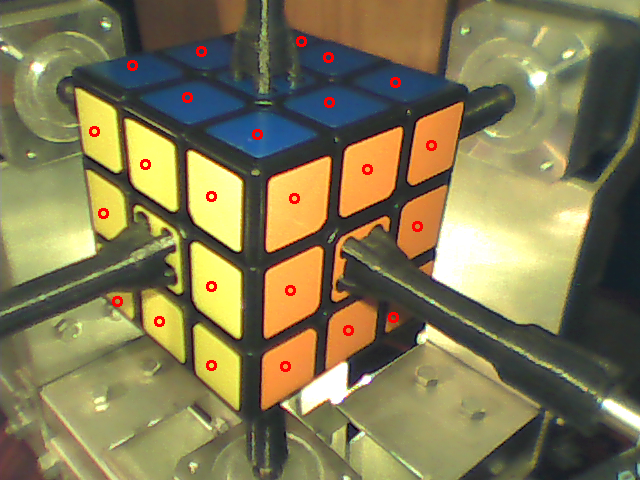
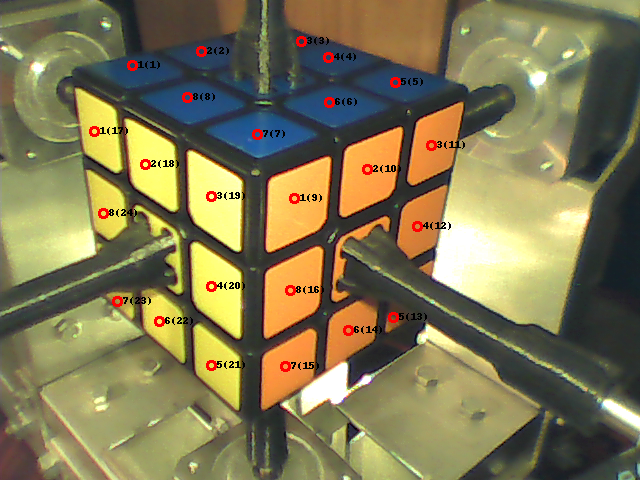
assignment

diff --git a/python/main.py b/python/main.py
@@ -1,41 +1,43 @@
+import read_points_from_file
+import history
+import make_a_photo
+import colors
+
 PATH = '/home/alex/inzynierka/'
 
+#save old photos in history
+number_of_photos_in_history = 5 
 
+history.set_number_of_photos_in_history(number_of_photos_in_history)
+history.set_path(PATH)
+history.save_history()
+
+#make a photo
+# make_a_photo.make_a_photo('/dev/video0', '/dev/video0')
+
+#get an coords of points
 red_wall = [9]
 yellow_wall = [9]
 orange_wall = [9]
 white_wall = [9]
 blue_wall = [9]
 green_wall = [9]
-
-
-#get an coords of points
+cube = [red_wall, yellow_wall, orange_wall, white_wall, blue_wall, green_wall]
 
 coords = [[],[]]
 coords_down = []
 coords_up = []
 
-import read_points_from_file
+cube_colors = [[],[]]
+cube_colors_down = []
+cube_colors_up = []
 
 coords = [coords_down, coords_up] = read_points_from_file.read_points_from_file(PATH + 'data/points.txt')
 
+#take the color values and save it 
 
-#save old photos in history
-import photo_history
-
-number_of_photos_in_history = 5 
-
-photo_history.set_number_of_photos_in_history(number_of_photos_in_history)
-photo_history.set_path(PATH)
-photo_history.save_history()
-
-#make a photo
-import make_a_photo
-
-make_a_photo.make_a_photo('/dev/video0', '/dev/video0')
-
-#take the color values and save it
-
+cube_colors_down = colors.take_colors(coords_down, PATH+'img/cube_down_new.jpg')
+cube_colors_up = colors.take_colors(coords_up, PATH+'img/cube_up_new.jpg')
 
 
 #obróć ściankę 

diff --git a/python/draw_points_on_image.py b/python/draw_points_on_image.py
@@ -14,7 +14,7 @@ def draw_elipse(draw, x, y, color = (255, 0, 0), radius = 5, width = 3):
     draw.ellipse([(x0, y0),(x1, y1)], None, color, width)
 
 
-f = open('/home/alex/inzynierka/python/points.txt', 'r')
+f = open('/home/alex/inzynierka/data/points.txt', 'r')
 
 coords_down = []
 coords_up = []
@@ -34,10 +34,14 @@ f.close()
 im = Image.open('/home/alex/inzynierka/img/kostka_dol.png')
 draw = ImageDraw.Draw(im)
 
-
-
+n = 0
+m = 0
 for i in range(0, len(coords_down), 2):
     draw_elipse(draw, coords_down[i], coords_down[i+1])
+    n+=1
+    m+=1
+    draw.text((coords_down[i]+6, coords_down[i+1]-6), (str(n)+'('+str(m)+')'), fill="black")
+    if n==8: n=0
 
 im.save('cube_marked_down.png')
 im.close()
@@ -45,8 +49,13 @@ im.close()
 im = Image.open('/home/alex/inzynierka/img/kostka_gora.png')
 draw = ImageDraw.Draw(im)
 
+m = 0
 for i in range(0, len(coords_up), 2):
     draw_elipse(draw, coords_up[i], coords_up[i+1])
+    n+=1
+    m+=1
+    draw.text((coords_up[i]+6, coords_up[i+1]-6), (str(n)+'('+str(m)+')'), fill="black")
+    if n==8: n=0
 
 im.save('cube_marked_up.png')
 im.close()

diff --git a/python/colors.py b/python/colors.py
@@ -1,0 +1,14 @@
+from PIL import Image, ImageDraw
+
+def take_colors(coords, image_path):
+    try:
+        im = Image.open(image_path)
+    except FileNotFoundError:
+        print("File cube_down_" + image_path + " not found")
+        return
+    colors = []
+    for i in range(0, len(coords), 2):
+        pix = im.getpixel((coords[i], coords[i+1]))
+        colors.append(pix)
+    im.close()
+    return colors

diff --git a/python/history.py b/python/history.py
@@ -26,6 +26,7 @@ def overwrite_photo(overwritten_photo, number):
     def rename_cube_photo(upOrDown):
         im = Image.open(path + 'img/cube_' + upOrDown + '_' + overwritten_photo + ('_'+str(number-1) if (number > 0) else '') + '.jpg')
         im.save(path + 'img/cube_' + upOrDown + '_old_' + str(number) + '.jpg')
+        im.close()
     try:
         rename_cube_photo('down')
         rename_cube_photo('up')

diff --git a/python/getting_points_by_video_with_coordinates.py b/python/getting_points_by_video_with_coordinates.py
@@ -1,6 +1,6 @@
 import cv2
 
-f = open('/home/alex/inzynierka/python/points.txt', 'r')
+f = open('/home/alex/inzynierka/data/points.txt', 'r')
 
 X_coords = []
 Y_coords = []
@@ -16,7 +16,7 @@ f.close()
 
 
 cv2.namedWindow("preview")
-vc = cv2.VideoCapture("/dev/video2")
+vc = cv2.VideoCapture("/dev/video0")
 
 
 center_coords = (166, 204)

diff --git a/python/colors_assignment.py b/python/colors_assignment.py
@@ -1,0 +1,11 @@
+#       |1 2 3|
+#       |4 b 6|
+#       |7 8 9|
+# |1 2 3|1 2 3|1 2 3|1 2 3|
+# |4 w 6|4 r 6|4 w 6|4 r 6|
+# |7 8 9|7 8 9|7 8 9|7 8 9|
+#       |1 2 3|
+#       |4 g 6|
+#       |7 8 9|
+
+def assign_colors

diff --git a/python/show_points_on_image.py b/python/show_points_on_image.py
@@ -1,6 +1,6 @@
 import cv2
 
-f = open('/home/alex/inzynierka/python/points.txt', 'r')
+f = open('/home/alex/inzynierka/data/points.txt', 'r')
 
 coords_down = []
 coords_up = []
